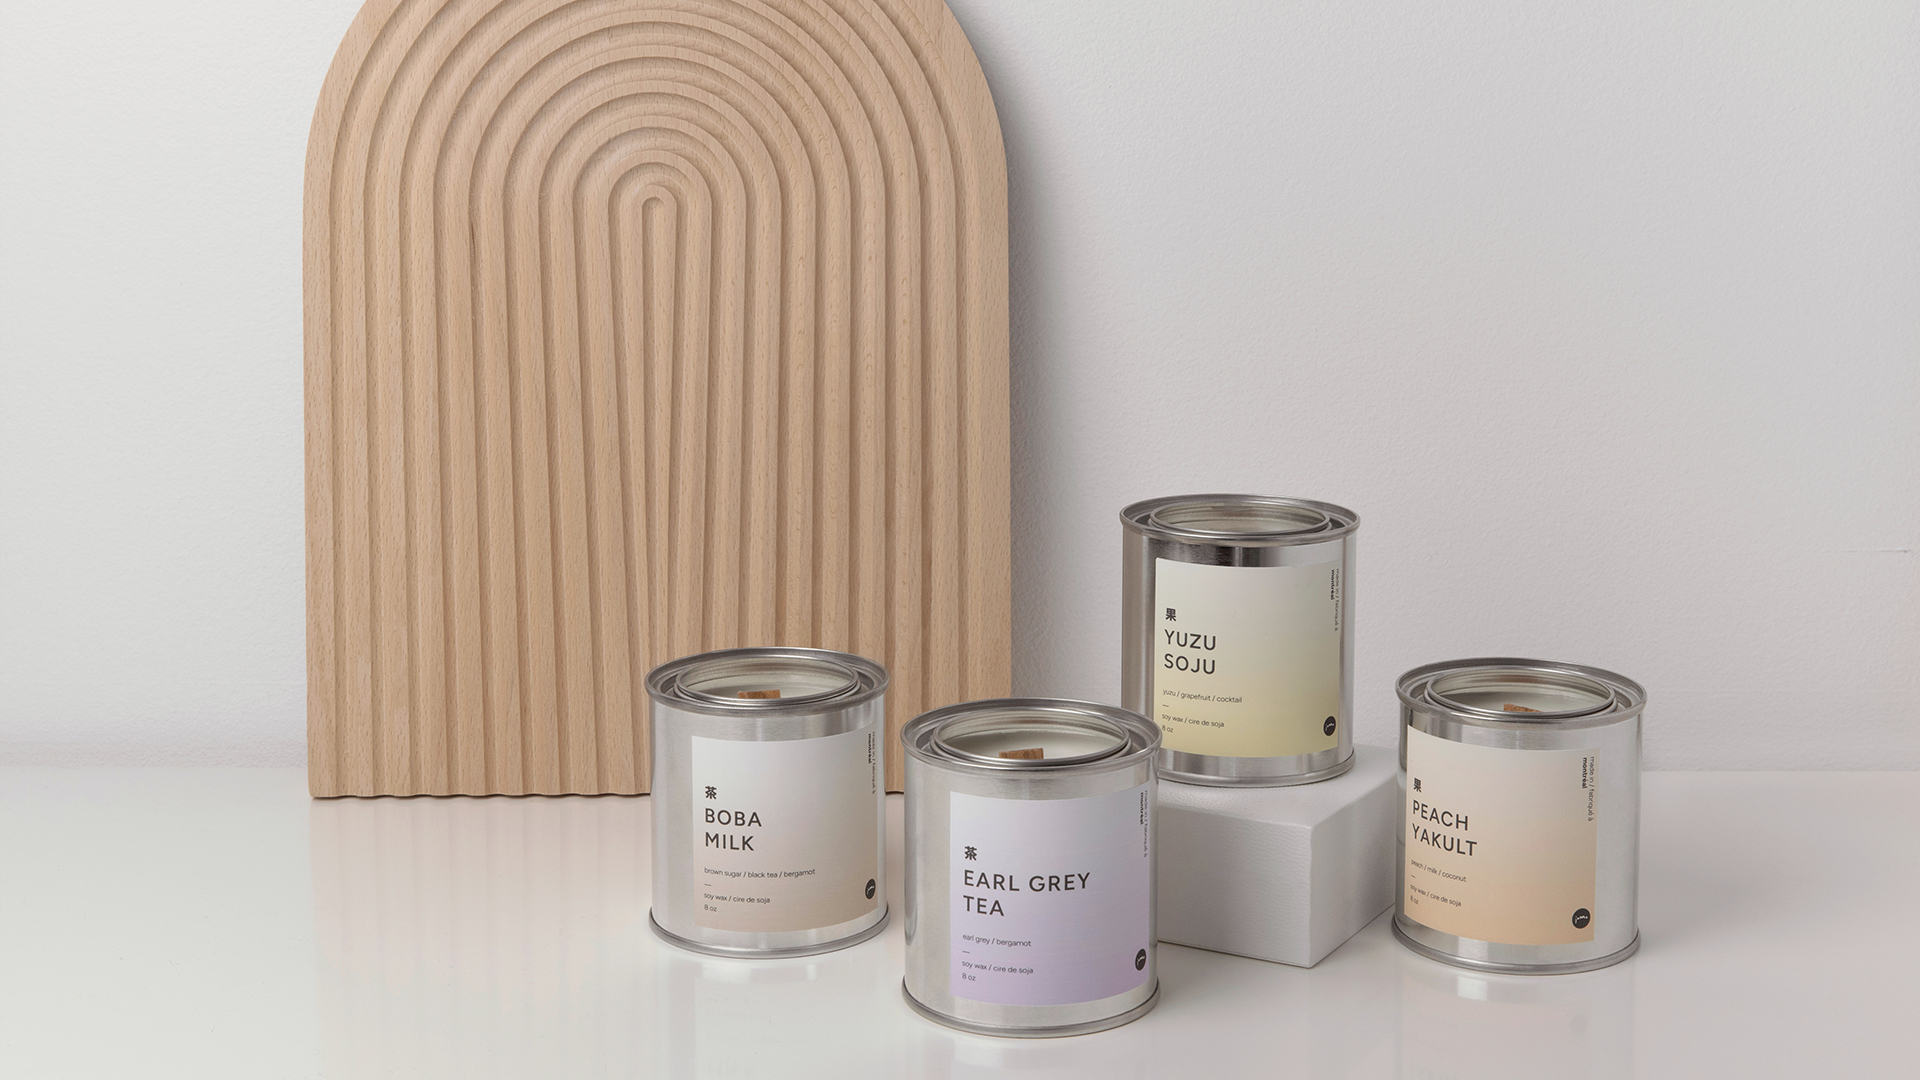
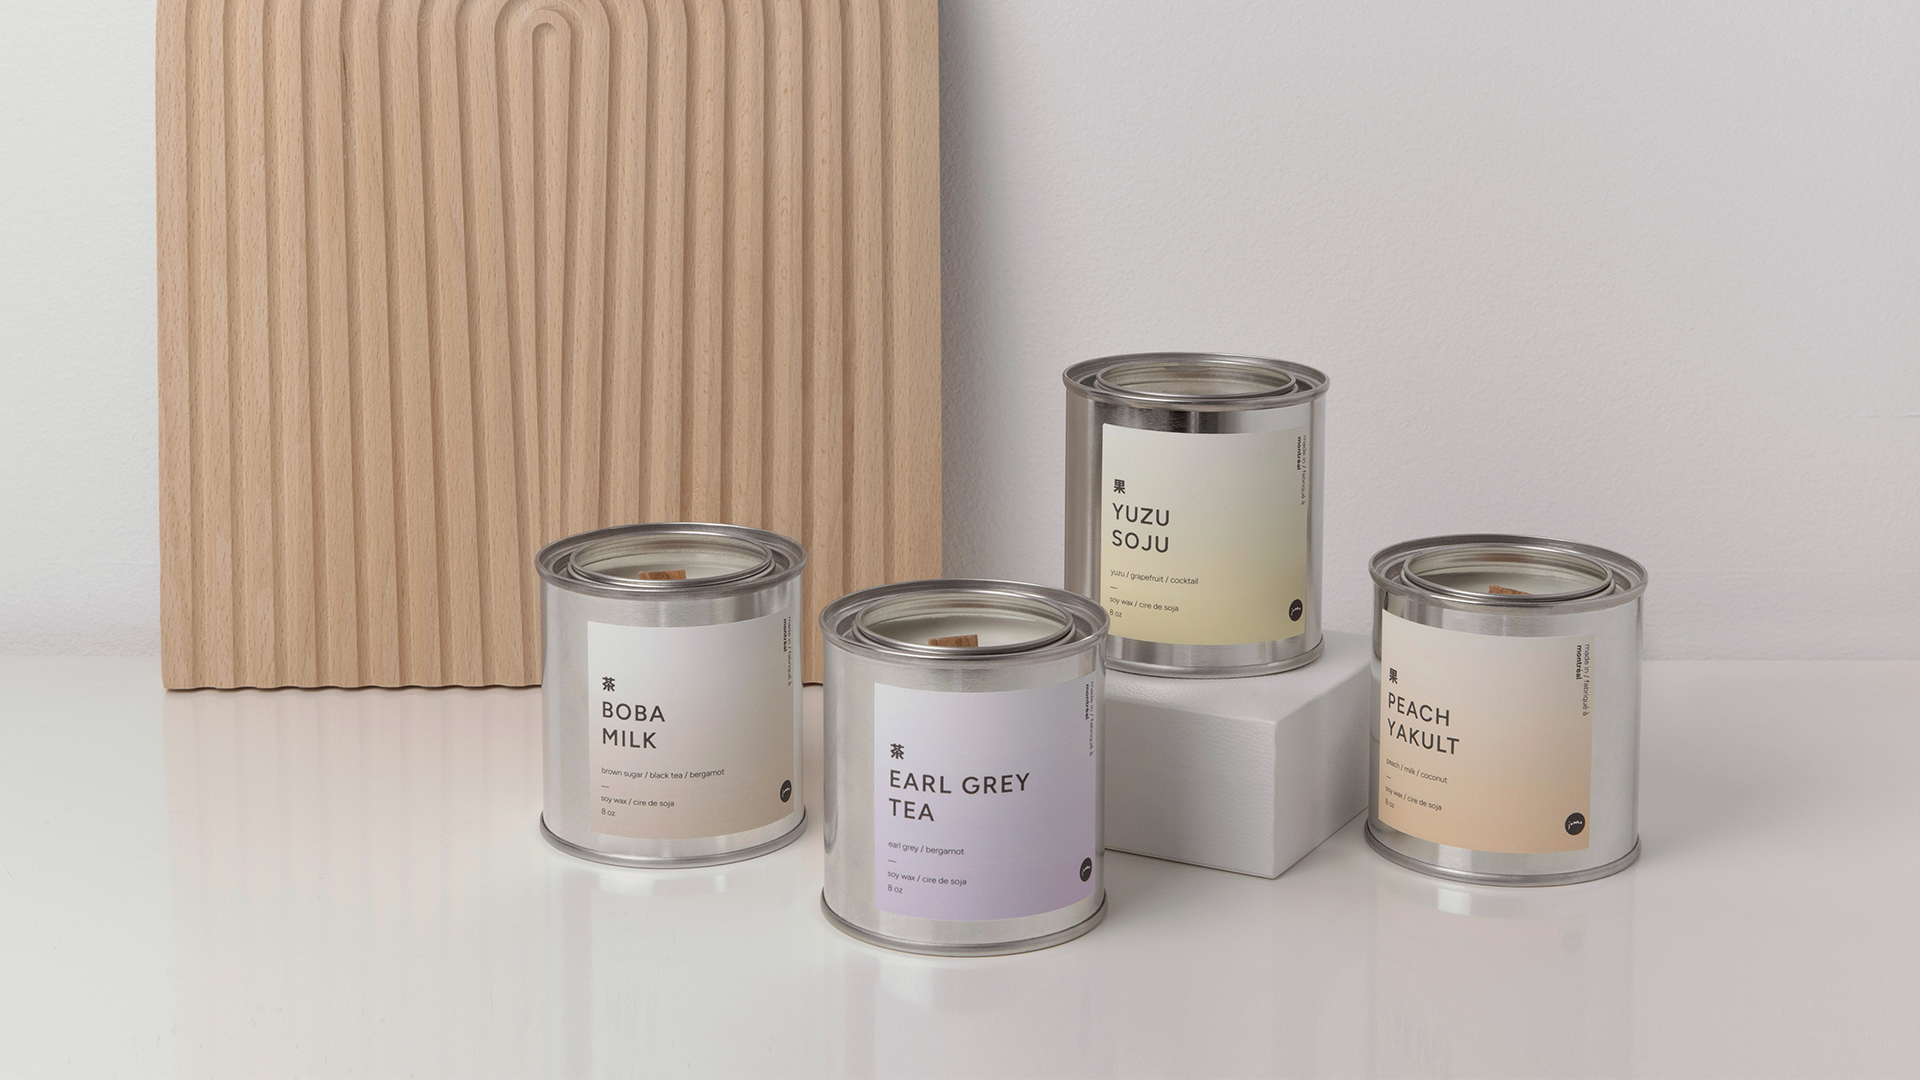
Fixed JOMO Spacing

diff --git a/css/stylesjomo.css b/css/stylesjomo.css
@@ -27,8 +27,12 @@ body {
   margin-top: -150px;
 }
 
+#reduc3 {
+  margin-top: -150px;
+}
+
 #reduc2 {
-  margin-top: -100px;
+  margin-top: 300px;
   margin-bottom: 300px;
 }
 
@@ -253,7 +257,7 @@ body {
 
 #work-containertitle {
    margin-bottom: 100px;
-   margin-top: 300px;
+   margin-top: 200px;
 }
 
 #work-container2 {

diff --git a/jomo.html b/jomo.html
@@ -54,9 +54,6 @@ Link to their website: <a class="nav-link" href="https://jomocandle.com/">JOMO C
   Photography provided by: <a class="nav-link" href="https://www.instagram.com/chen.zelin/">Zelin Chen</a></div>
   <div id="heritage2">
 
-
-
-
   <div id="work-containertitle">
 
     <div class="row">
